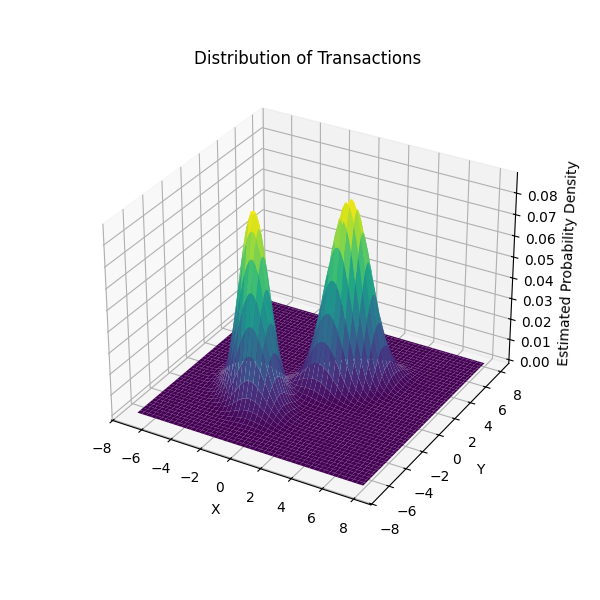
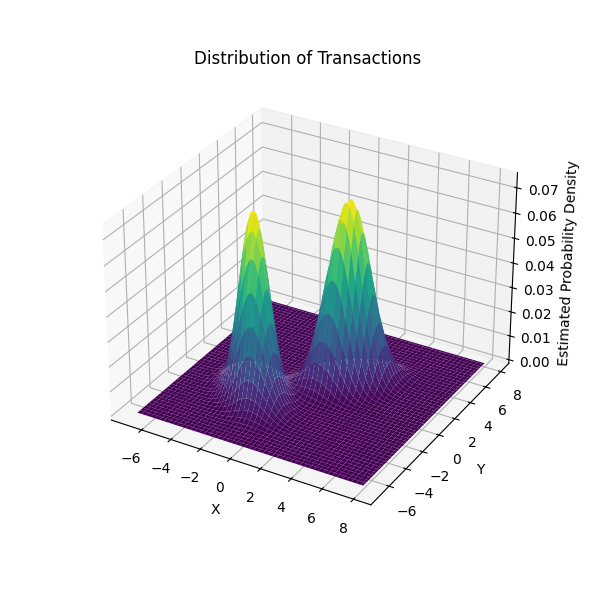
q2 fixed

diff --git a/Assignment3/q2/2.py b/Assignment3/q2/2.py
@@ -13,7 +13,7 @@ class EpanechnikovKDE:
 
     def __epanechnikov(self, x):      
         mod_x_squared=np.sum(x**2, axis=-1)
-        return np.maximum(0, 0.75*(1-mod_x_squared))
+        return np.maximum(0, (2/np.pi)*(1-mod_x_squared))
 
     def epanechnikov_kernel(self, x, xi):
         """Epanechnikov kernel function."""
@@ -25,7 +25,7 @@ class EpanechnikovKDE:
         """Evaluate the KDE at point x."""
         func_val=[]
         for point in x:
-            func_val.append(np.sum(self.epanechnikov_kernel(point, self.data))/(self.bandwidth*self.data.shape[0]))
+            func_val.append(np.sum(self.epanechnikov_kernel(point, self.data))/((self.bandwidth**2)*self.data.shape[0]))
         
         return np.array(func_val)
 
